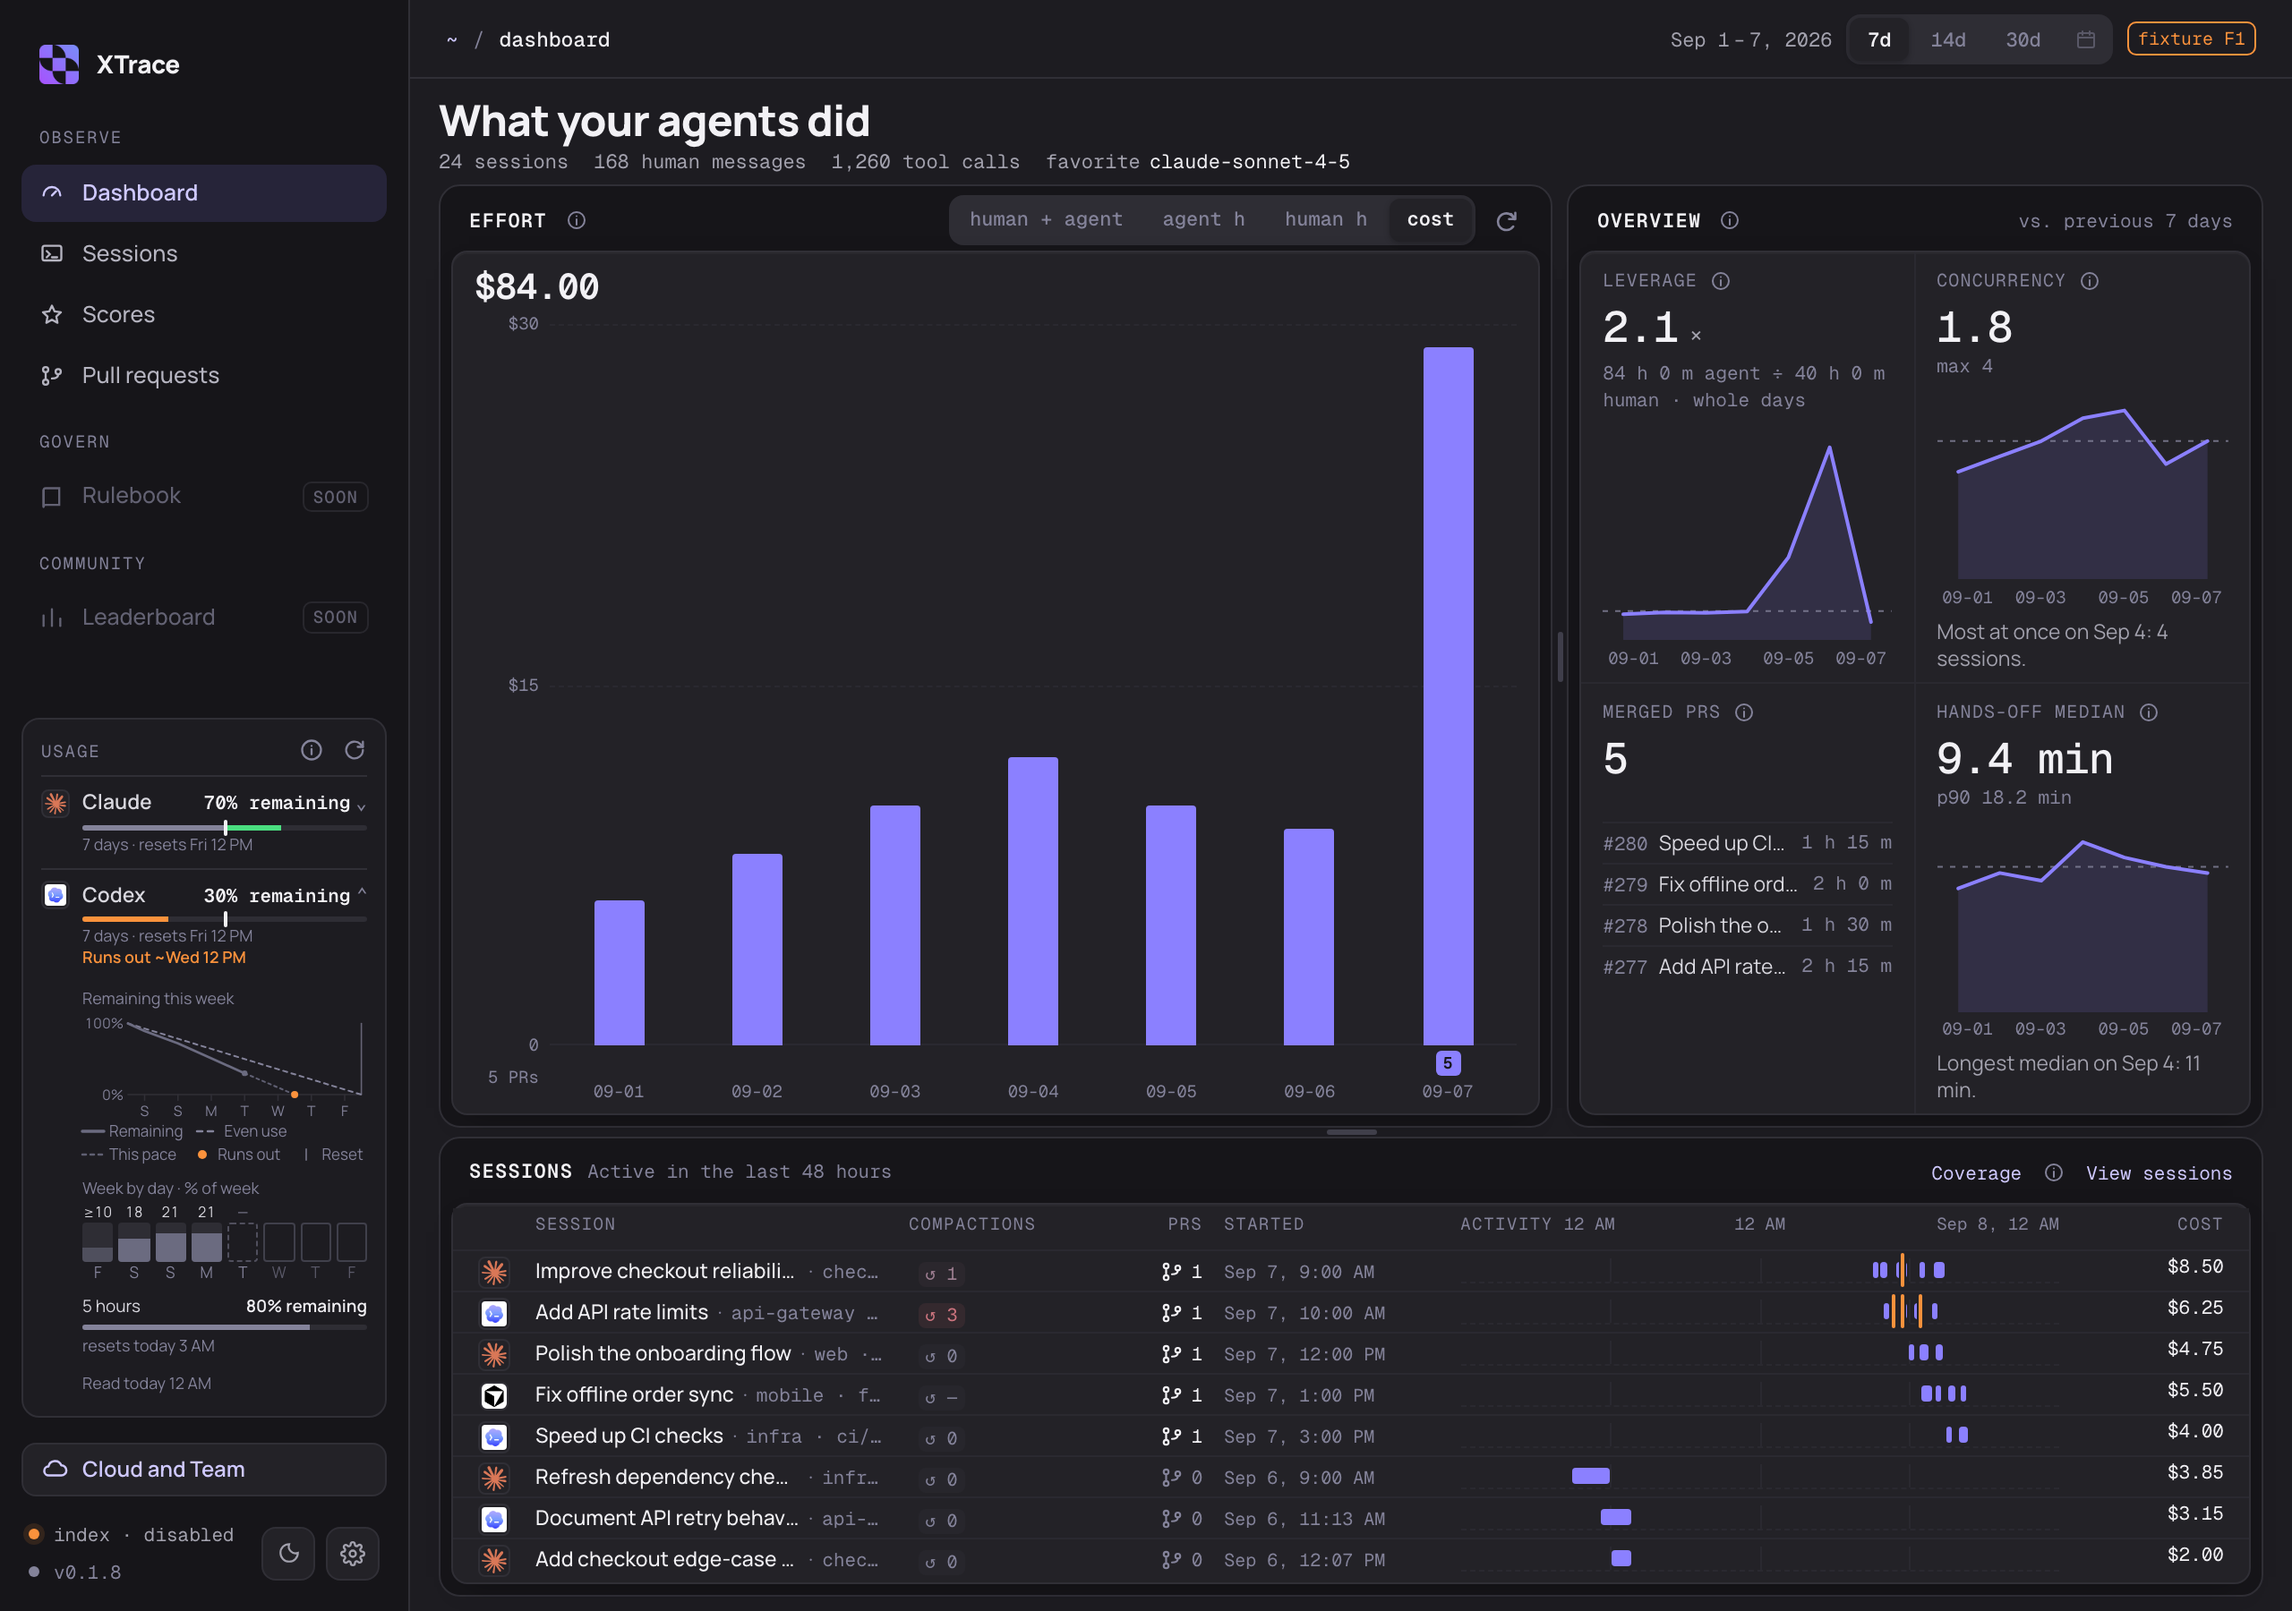
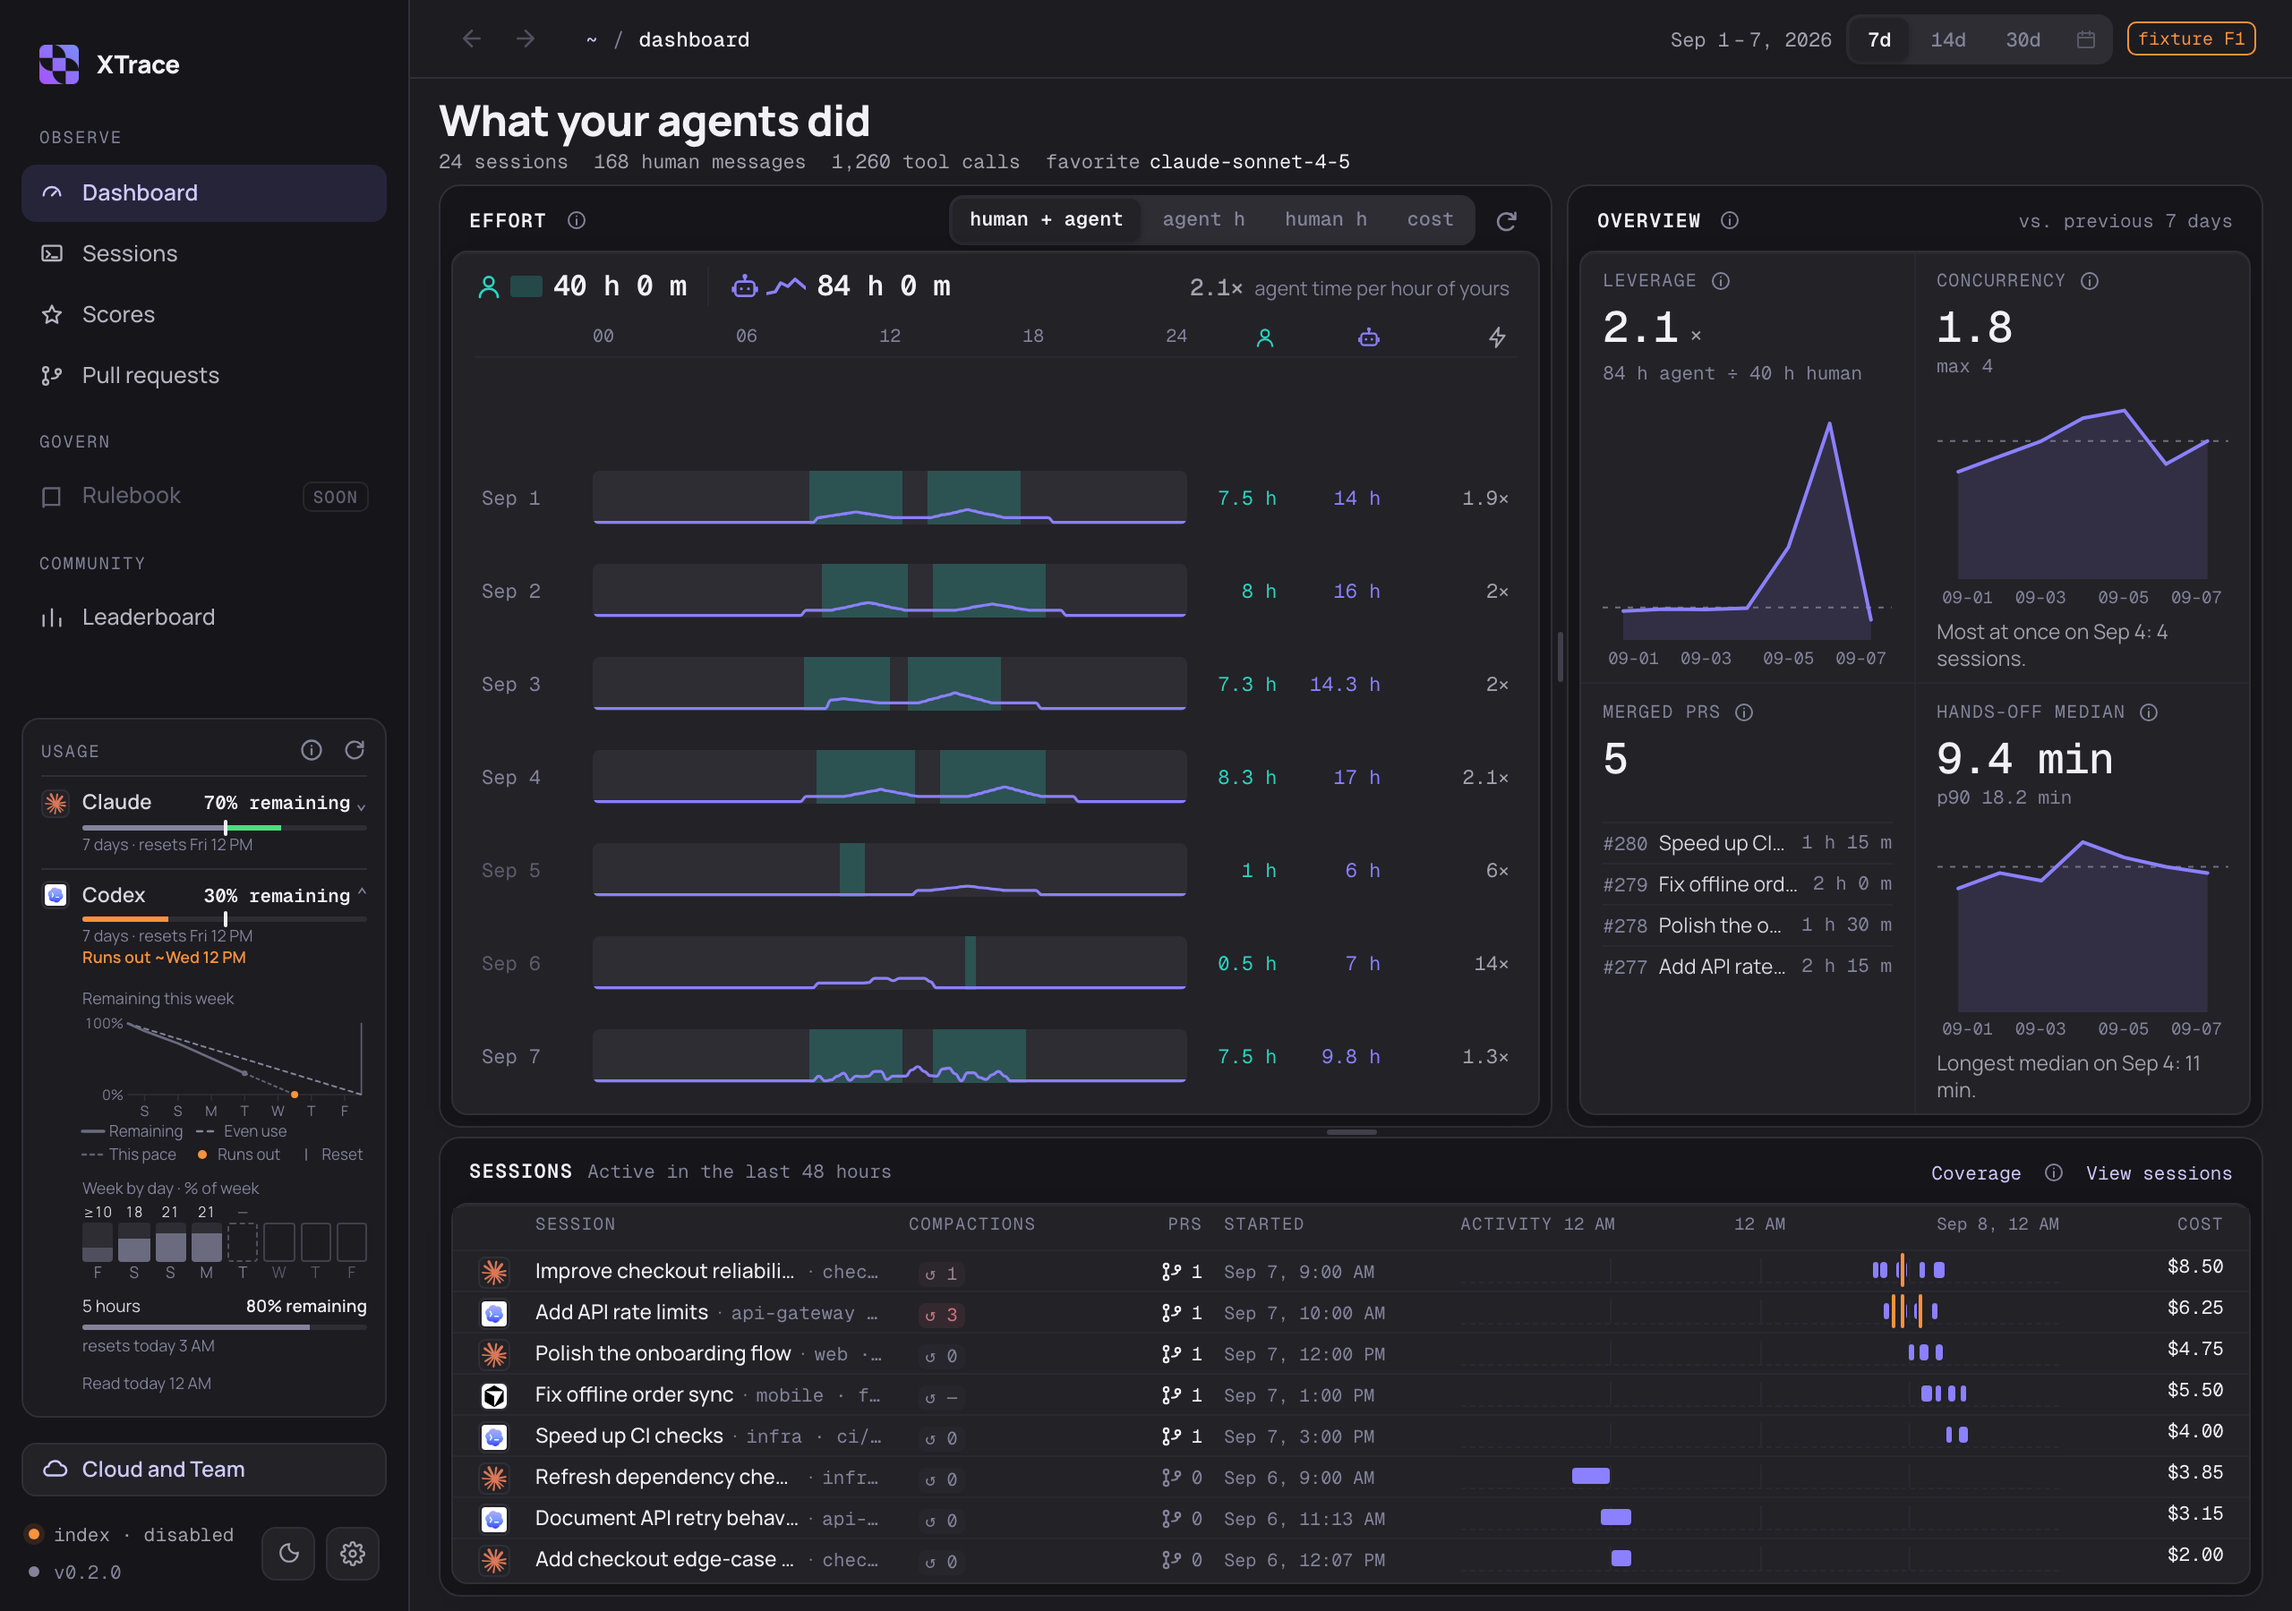
docs: refresh README for XTrace 0.2.0
Describe the human + agent Effort view, session warnings, grade details
and the grading line, Back and Forward, the signed-out Claude usage row,
the secret-folder limit on grading runs and the opt-in leaderboard's
network use. Fix the Diagnose button label to "Send & diagnose".

Retake the Dashboard and Scores images from 0.2.0 source with the same
made-up sample data, now on the default human + agent tab.

diff --git a/README.md b/README.md
@@ -20,7 +20,7 @@ in the sidebar.
 [Setup guide](docs/SETUP.md) ·
 [Report a bug](https://github.com/XTraceAI/xtrace/issues)
 
-<img src="docs/images/readme/dashboard-dark.png" alt="XTrace Dashboard with API-equivalent spend, estimated human time, populated Claude and Codex usage, a Codex forecast, and session compaction counts and markers" width="100%">
+<img src="docs/images/readme/dashboard-dark.png" alt="XTrace Dashboard with the human + agent view of each day's hours and leverage, populated Claude and Codex usage, a Codex forecast, and session compaction counts and markers" width="100%">
 
 **See it in 44 seconds**
 
@@ -44,7 +44,10 @@ see what changed in your time, spend and activity:
 - **Will my usage last until the reset?** See account limits, whether you are
   ahead of or behind even use, and a forecast at your current pace.
 - **What happened during a session?** Inspect activity spans, prompts and recorded
-  context compactions on a timeline.
+  context compactions on a timeline, then read the whole conversation.
+- **Where did a session go wrong?** See a warning where you corrected or
+  interrupted the agent, repeated a prompt, a call kept failing, or the agent
+  admitted a mistake.
 
 Use the daily charts and previous-period comparisons to investigate changes after
 adopting a tool or workflow. Compare similar work and consider what you shipped
@@ -54,29 +57,37 @@ and the review it needed: more agent hours alone do not prove a productivity gai
 
 ### Time, spend and parallel work
 
-Compare estimated human time and agent activity together in the **human + agent**
-view, or switch to agent hours, human hours or API-equivalent cost for the last
-7, 14 or 30 days. The overview shows leverage (agent hours divided by estimated
-human hours), concurrency and hands-off time, with previous-period comparisons.
-Definitions explain how each number is counted and what is missing. Values the
-app could not measure show as a dash, not zero.
+The Dashboard's Effort card opens on the **human + agent** view: one row per day,
+with shaded bands for when you were working, a line for how many agents ran in
+each 15 minutes, and that day's hours and leverage. A day at or below 1× shows in
+red. Hover a date for the day's summary and its sessions, and click a session to
+open it. Switch to agent hours, human hours or API-equivalent cost for the last
+7, 14 or 30 days. Hover the favorite model to see each model's share of output.
+
+The overview shows leverage (agent hours divided by estimated human hours),
+concurrency and hands-off time, with previous-period comparisons. Definitions
+explain how each number is counted and what is missing. Values the app could not
+measure show as a dash, not zero.
 
 ### Scores: find what to improve
 
 Use scoring skills to review your project instructions, comments, repeated code,
-documentation and agent setup. Open a skill to grade a project and read its score,
-findings and suggested fixes. The screenshot shows the built-in CLAUDE.md Doctor
-alongside four example added skills.
+documentation and agent setup. Open a skill to grade a project, then click a score
+to see how it was given: the summary, the points for each rubric criterion, and
+every finding with its explanation and suggested fix. Gradings you start while
+another one runs wait in line and start by themselves. The screenshot shows the
+built-in CLAUDE.md Doctor alongside four example added skills.
 
 <picture>
   <source media="(prefers-color-scheme: dark)" srcset="docs/images/readme/scores-dark.png">
   <source media="(prefers-color-scheme: light)" srcset="docs/images/readme/scores-light.png">
-  <img alt="Scores showing sample findings across 14 fictional projects and five example scoring skills, with an Add a skill card" src="docs/images/readme/scores-dark.png" width="900">
+  <img alt="Scores showing sample findings across 14 fictional projects and five example scoring skills, with an Add a grading skill card" src="docs/images/readme/scores-dark.png" width="900">
 </picture>
 
 _Sample scores and findings across 14 fictional projects, not measured grading results._
 
-Add your own installed skills or discover skills through a public GitHub link.
+Use **Add a grading skill** to add your own installed skills or discover skills
+through a public GitHub link.
 A skill needs a scoring rubric; **Make a rubric** can create one for a suitable
 review skill before you add it. Skills that need to modify a project or access
 the network may not be suitable. See [adding skills and rubrics](docs/GRADING-RUBRIC.md).
@@ -92,7 +103,8 @@ Claude and Codex usage stays in the sidebar when your local tools can report it.
 Green and orange indicators show usage behind or ahead of an even pace. Expand a
 provider to see remaining usage, daily readings and a linear forecast based on
 average use since the weekly window began. The forecast assumes that pace
-continues; it is an estimate, not a guaranteed run-out time.
+continues; it is an estimate, not a guaranteed run-out time. If Claude Code is
+signed out, its row says so; click it to open Terminal and sign in again.
 
 ### Session activity and compactions
 
@@ -106,11 +118,28 @@ readings stay distinct from a confirmed zero.
 ![Session activity with multiple spans, compaction counts, and a hovered automatic compaction showing its recorded time](docs/images/readme/session-compactions-dark.png)
 
 The Sessions page brings your indexed Claude Code, Codex and Cursor sessions into
-one list. Find a session by ID, repo or branch, filter by tool, and open its local
-transcript. Codex and Cursor need the bundled readers and Python 3.10 or newer;
-missing readers and unsupported formats show an unavailable state. Cursor SQLite
-transcripts are not supported. A sub-session whose parent session can't be
-confirmed is left out of the list.
+one list. Find a session by ID, repo or branch, filter by tool, and open it to read
+the whole conversation, with tool activity you can expand. Codex and Cursor need
+the bundled readers and Python 3.10 or newer; missing readers and unsupported
+formats show an unavailable state. Cursor SQLite transcripts are not supported. A
+sub-session whose parent session can't be confirmed is left out of the list.
+
+### Session warnings
+
+XTrace checks each session's whole history for signs it went wrong: you corrected
+the agent after a reply, interrupted it or declined a tool call, sent the same
+prompt twice, the same call failed more than once, or the agent's reply admitted
+a mistake ("you're right", "my mistake"). These are simple rules, not a model's
+judgment, so some warnings will be false alarms.
+
+Warnings show as red dots on the Dashboard's session rows and human + agent days,
+and as a count on the Sessions page. Open one to see the conversation around it
+and why it was flagged. **Dismiss** hides a warning everywhere, and **Undo**
+brings it back. A dismissed repeated prompt or repeated failure comes back if it
+happens again. **Diagnose** asks Claude Code (or Codex) to explain what happened and can
+suggest a skill or an instruction line; it sends messages only after you confirm
+(see [Your data](#your-data)). A session's page lists its warnings and says which
+checks could not read everything.
 
 ### Pull requests and quick access
 
@@ -120,7 +149,8 @@ counts in full toward each of them. Pull request details come from GitHub's
 command-line tool (`gh`) when it is installed and signed in. XTrace never posts
 to GitHub.
 
-The menu bar keeps today's activity one click away. Settings includes light, dark
+The menu bar keeps today's activity one click away. **Back** and **Forward** beside
+each page's title (⌘[ and ⌘]) return to pages you opened. Settings includes light, dark
 or system appearance, the human-time break threshold, index status,
 storage controls and the telemetry switch.
 
@@ -172,7 +202,7 @@ See the [setup guide](docs/SETUP.md) for first launch and troubleshooting.
   **Delete stored content** clears saved text and warning decisions, even when no
   other saved text remains. Later imports, including older messages, can create
   new previews and warning decisions.
-- **Diagnose sends selected messages.** Only after you confirm **Send and
+- **Diagnose sends selected messages.** Only after you confirm **Send &
   diagnose**, selected messages around a warning go to Claude Code's hosted model,
   or Codex's if Claude Code is unavailable before receiving the messages. Cursor
   is not tried automatically. XTrace keeps the result in the window's cache and
@@ -182,13 +212,15 @@ See the [setup guide](docs/SETUP.md) for first launch and troubleshooting.
   project and skill; that content can be sent to Claude on your account. Making a
   rubric similarly uses the selected skill's content. Grading keeps the project
   read-only and blocks network access for sandboxed commands; that does not make
-  Claude's model requests offline. The run's transcript is not saved by Claude
+  Claude's model requests offline. Grading and rubric runs also cannot read
+  well-known secret folders such as SSH keys, cloud credentials, keychains and
+  browser profiles. The run's transcript is not saved by Claude
   Code; XTrace keeps the resulting scores, summaries, findings and reports. See
   [grading and rubric details](docs/GRADING-RUBRIC.md).
 - **Other network use.** XTrace uses the network for anonymous usage telemetry
   (see [Telemetry](#telemetry)), account usage readings, GitHub pull request checks,
-  app updates, and public GitHub look-ups and downloads you start with **Add from
-  a link**. Keeping a skill stores it locally and links it into normal Claude Code
+  app updates, public GitHub look-ups and downloads you start with **Add from
+  a link**, and the public leaderboard if you join it. Keeping a skill stores it locally and links it into normal Claude Code
   sessions when its name is free there. Claude usage checks run your local Claude
   Code about every ten minutes, which adds small entries to Claude Code's own
   settings and history.
